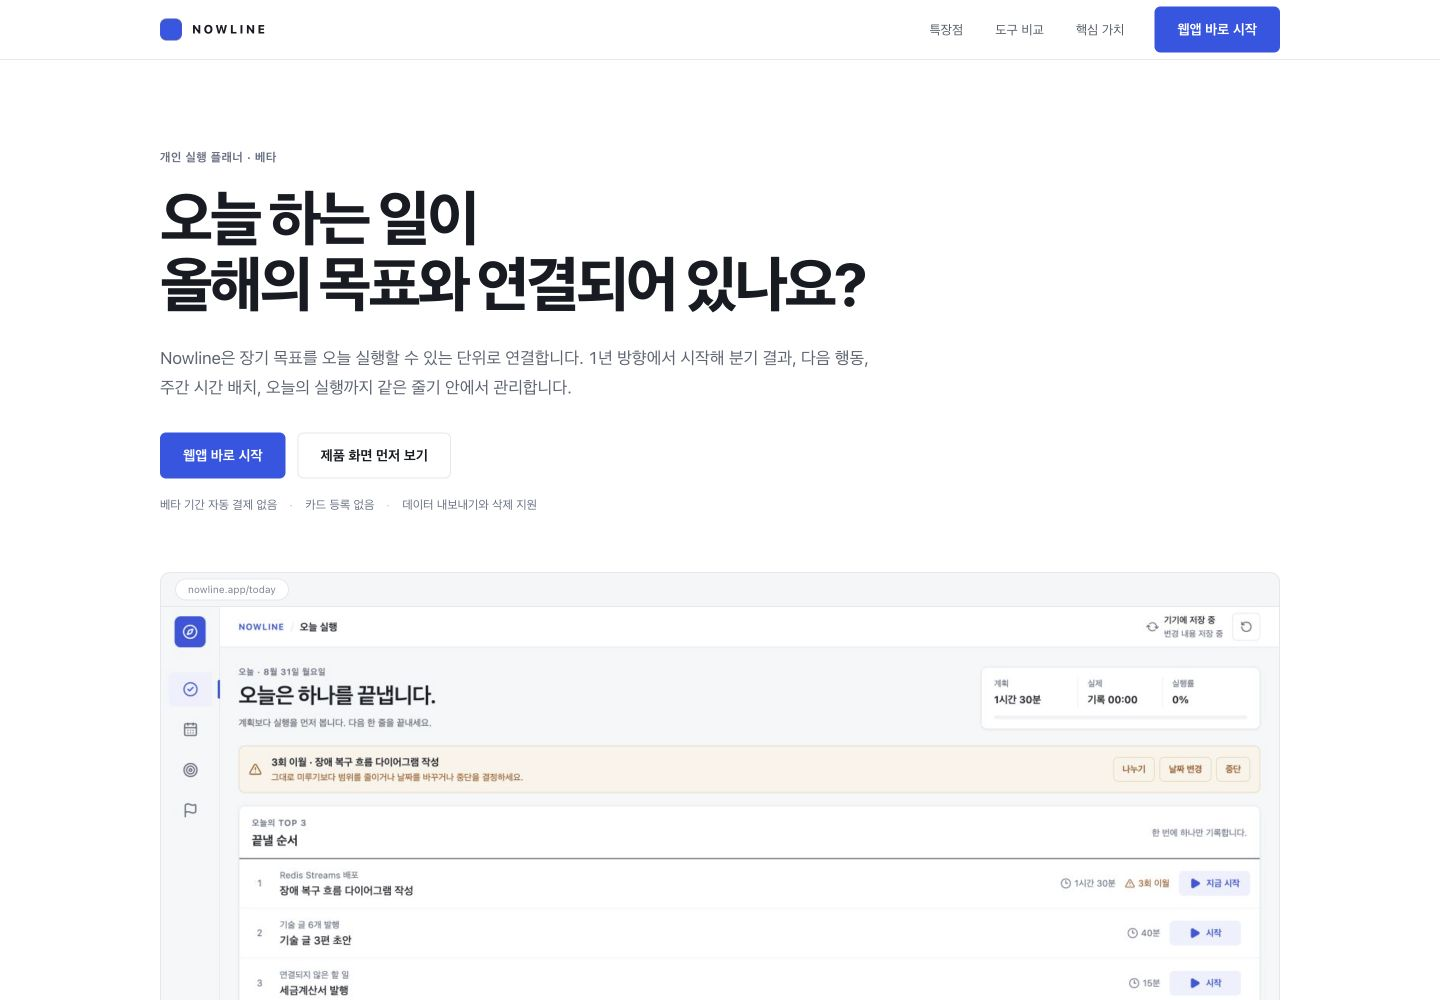
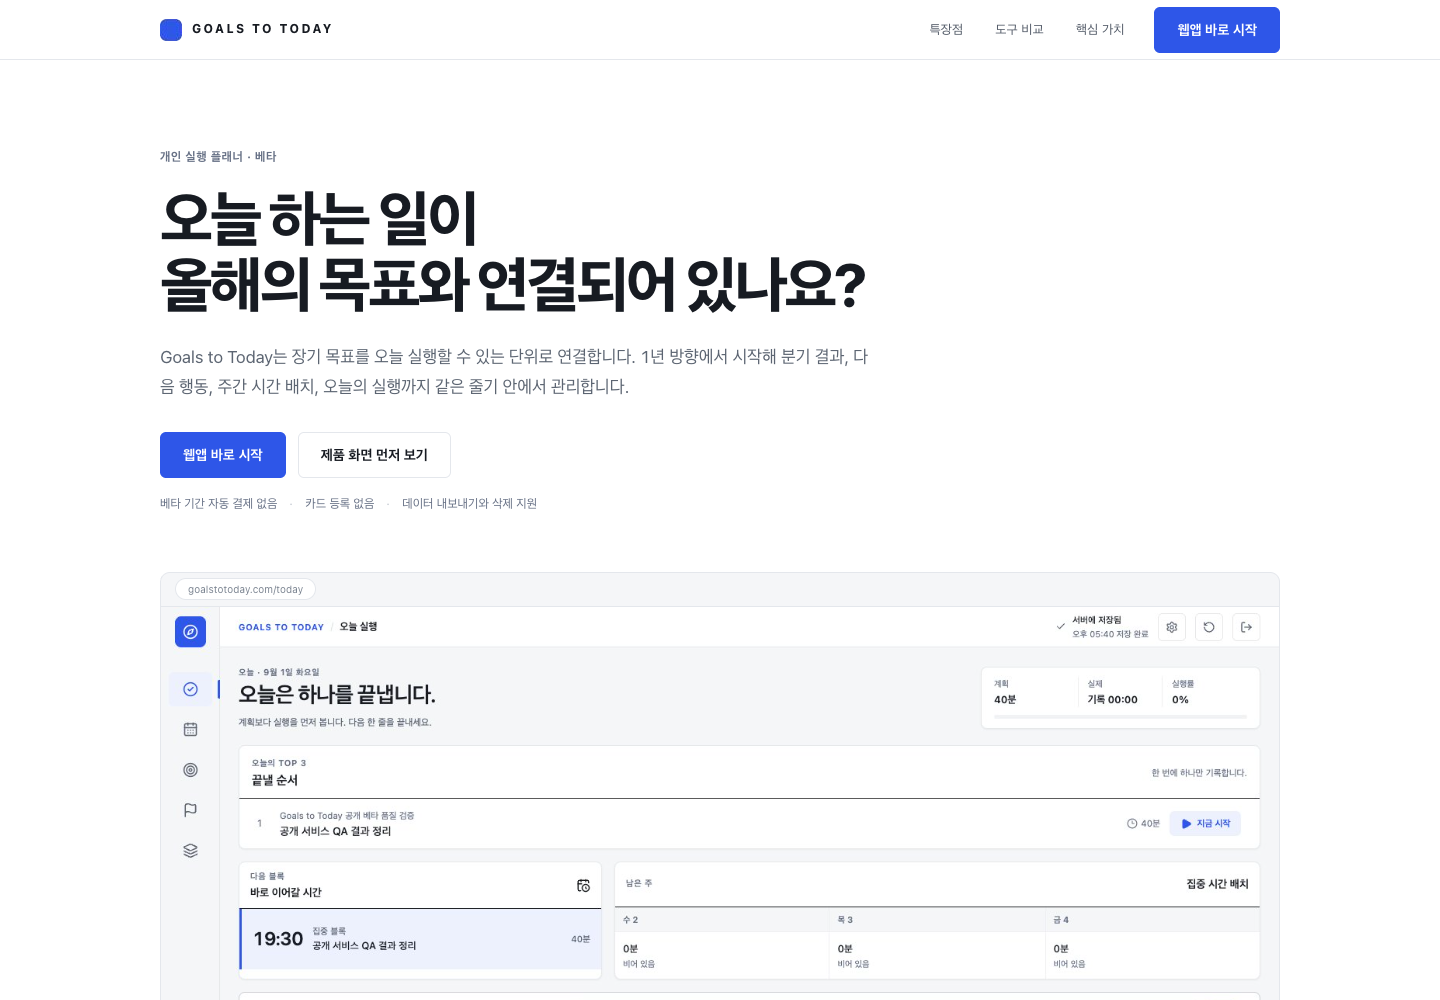
docs: finalize Goals to Today release evidence

diff --git a/GATES.md b/GATES.md
@@ -269,30 +269,30 @@ Scope: Replace the local-MVP trust boundaries with a deployable, multi-device, m
 
 Scope: Rebrand the public beta as Goals to Today, publish it through the user-owned `goalstotoday.com` Cloudflare zone without disrupting existing tunnel routes, and prove the HTTPS, identity, API, deployment, and repository state end to end.
 
-- [ ] G54: User-facing product metadata, landing content, authentication copy, native app labels, deployment configuration, and operator documentation consistently use Goals to Today and the canonical `https://goalstotoday.com` origin
+- [x] G54: User-facing product metadata, landing content, authentication copy, native app labels, deployment configuration, and operator documentation consistently use Goals to Today and the canonical `https://goalstotoday.com` origin
   CHECK: rtk npm run verify:goalstotoday:contracts
   EXPECT: Goals to Today domain and brand contracts verified
-  EVIDENCE: pending
+  EVIDENCE: 2026-09-01 exit=0; final contract run included public metadata, workflows, mobile labels, production/local K8s, dedicated Cloudflare ingress, Java 25 selection, issuer migration, Mac mini verifier, and printed `Goals to Today domain and brand contracts verified`
 
-- [ ] G55: The rebranded frontend, Java 25 backend, PWA, native synchronization, local-beta contracts, and Kubernetes manifests pass the repository release checks
+- [x] G55: The rebranded frontend, Java 25 backend, PWA, native synchronization, local-beta contracts, and Kubernetes manifests pass the repository release checks
   CHECK: rtk npm run verify:goalstotoday:release
   EXPECT: Goals to Today repository release verification passed
-  EVIDENCE: pending
+  EVIDENCE: 2026-09-01 exit=0; 31/31 frontend tests passed, Vite/PWA/Capacitor build and sync passed, Java 25 Spring + MySQL 8.4 integration verification passed, both Kubernetes overlays passed, and output ended `Goals to Today repository release verification passed`
 
-- [ ] G56: The Mac mini Kubernetes deployment runs the pushed Goals to Today revision and passes OIDC discovery, health, authenticated tenant isolation, persistence, and restart-safe runtime checks
-  CHECK: rtk npm run verify:beta:k8s:runtime
-  EXPECT: local Kubernetes beta runtime verified
-  EVIDENCE: pending
+- [x] G56: The Mac mini Kubernetes deployment runs the pushed Goals to Today revision and passes OIDC discovery, health, authenticated tenant isolation, persistence, and restart-safe runtime checks
+  CHECK: rtk npm run verify:goalstotoday:mac-mini
+  EXPECT: Goals to Today Mac mini Kubernetes runtime verified
+  EVIDENCE: 2026-09-01 exit=0; two new public OIDC users registered, saved isolated planners, retained data after logout/relogin, backend and frontend each had at least two Ready replicas, Keycloak was Ready, public issuer/hostname matched, and the tunnel LaunchAgent was running
 
-- [ ] G57: The public apex and www hostnames resolve through Cloudflare with trusted HTTPS, security headers, canonical routing, landing content, OIDC discovery, and API readiness while the existing SSH route remains usable
+- [x] G57: The public apex and www hostnames resolve through Cloudflare with trusted HTTPS, security headers, canonical routing, landing content, OIDC discovery, and API readiness while the existing SSH route remains usable
   CHECK: rtk npm run verify:goalstotoday:public
   EXPECT: Goals to Today public HTTPS, OIDC, SSH, desktop, and mobile verification passed
-  EVIDENCE: pending
+  EVIDENCE: 2026-09-01 exit=0; apex returned trusted HTTPS 200 with HSTS/CSP/nosniff, www returned canonical redirect, discovery issuer matched, planner rejected anonymous access with 401, dev token stayed unavailable, SSH worked, and 1440x1000 plus 390x844 Chrome checks had no errors
 
-- [ ] G58: Desktop and mobile browser QA completes landing-to-sign-in navigation, registration, authenticated planner load, save/reload, logout, and responsive/console checks through `https://goalstotoday.com`
-  EVIDENCE: pending
+- [x] G58: Desktop and mobile browser QA completes landing-to-sign-in navigation, registration, authenticated planner load, save/reload, logout, and responsive/console checks through `https://goalstotoday.com`
+  EVIDENCE: `verify:goalstotoday:mac-mini` completed public registration, consent, onboarding save, tenant isolation, entitlement, logout and relogin persistence; `verify:goalstotoday:public` passed desktop/mobile console checks; authenticated Today/Planner/Goals/Review and landing screenshots were recaptured from the public origin
 
 - [ ] G59: Local, origin, and Mac mini checkouts identify the same pushed release commit with no task-owned uncommitted changes
   CHECK: rtk npm run verify:goalstotoday:deployment
   EXPECT: Goals to Today deployment revision verified
-  EVIDENCE: pending
+  EVIDENCE: pending final documentation commit, push, and Mac mini pull
